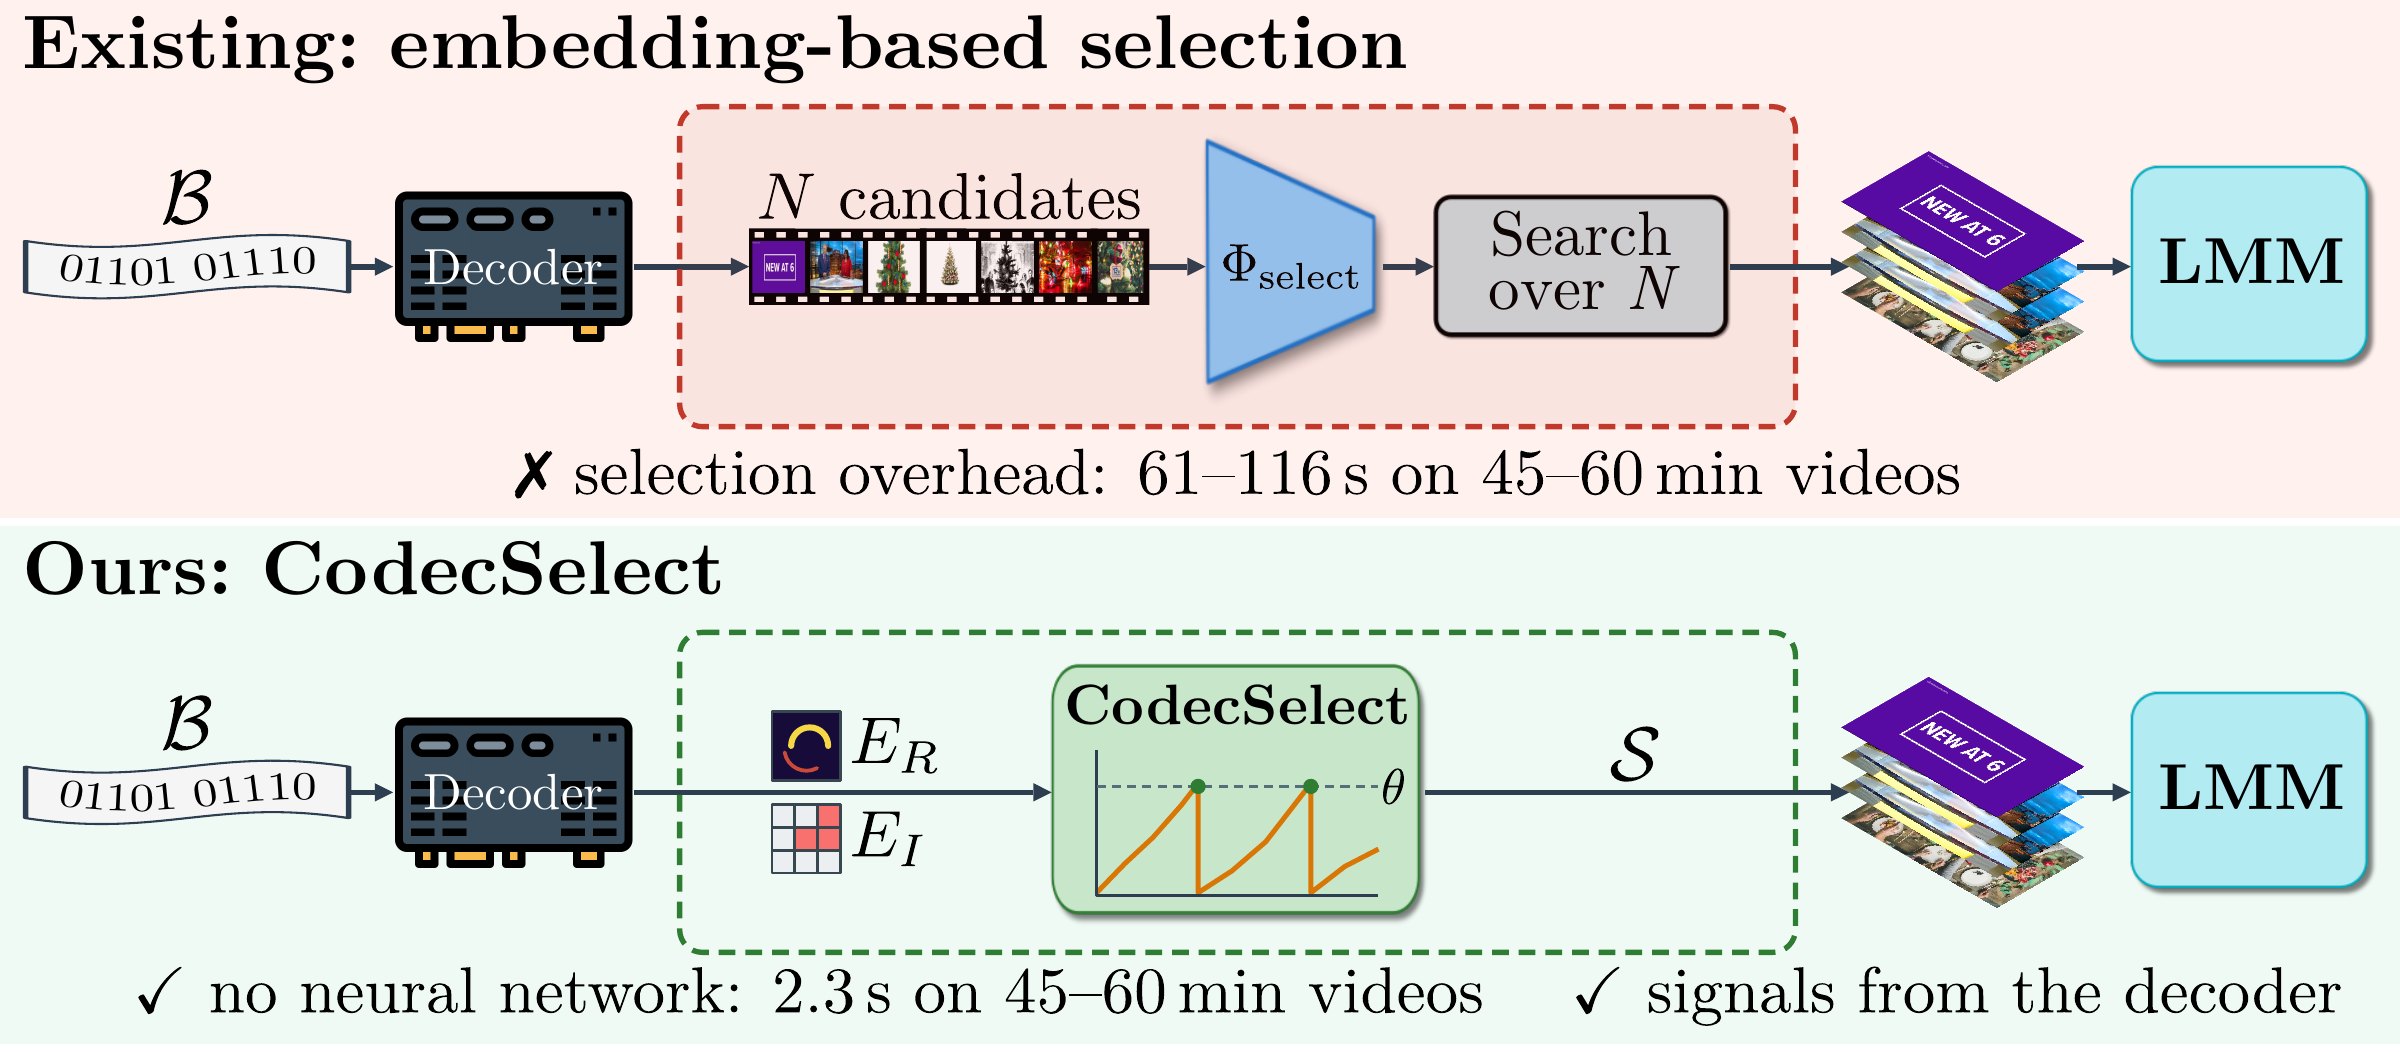
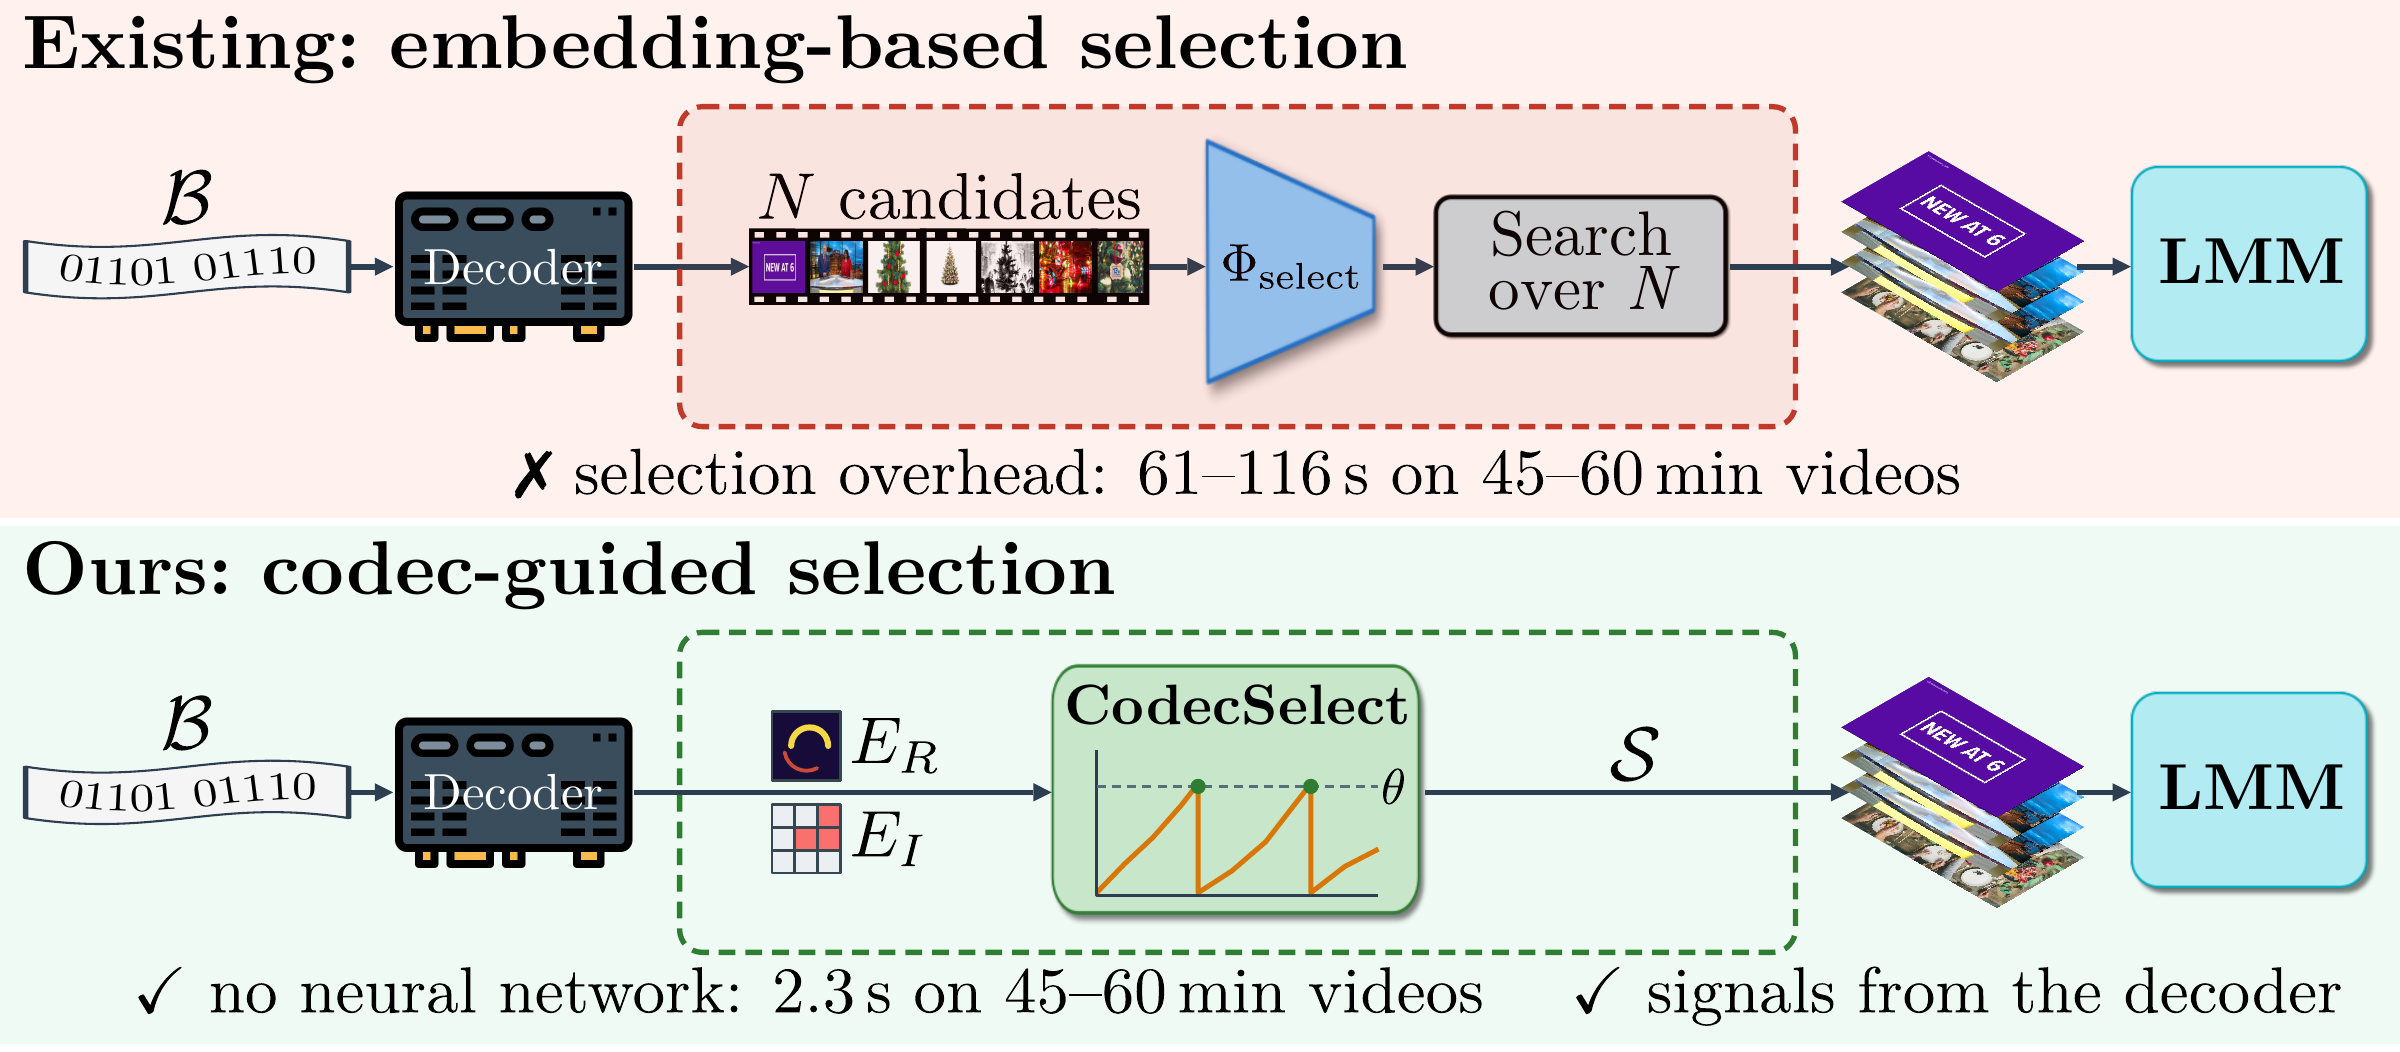
Code button, teaser label, author notes

Changed region(s): [[0.0938, 0.5171, 0.4688, 0.5779]]

diff --git a/docs/index.html b/docs/index.html
@@ -59,8 +59,8 @@ pre.bibtex{background:#f5f5f5;padding:16px;border-radius:6px;font-size:14px;whit
         <div class="column has-text-centered">
           <h1 class="title is-1 publication-title">Codec-guided Selection Cheaply Removes Redundant Frames for Video LMMs</h1>
           <div class="is-size-5 publication-authors">
-            <span class="author-block"><a href="https://lucazanella.github.io/" target="_blank">Luca Zanella</a><sup>1,*</sup>,</span>
-<span class="author-block"><a href="https://ferjad.github.io/" target="_blank">Muhammad Ferjad Naeem</a><sup>2,&dagger;</sup>,</span>
+            <span class="author-block"><a href="https://lucazanella.github.io/" target="_blank">Luca Zanella</a><sup>1,&dagger;</sup>,</span>
+<span class="author-block"><a href="https://ferjad.github.io/" target="_blank">Muhammad Ferjad Naeem</a><sup>2,&Dagger;</sup>,</span>
 <span class="author-block"><a href="https://xianyongqin.github.io/" target="_blank">Yongqin Xian</a><sup>2</sup>,</span>
 <span class="author-block"><a href="https://eliricci.eu/" target="_blank">Elisa Ricci</a><sup>1,3</sup>,</span>
 <span class="author-block"><a href="https://mancinimassimiliano.github.io/" target="_blank">Massimiliano Mancini</a><sup>1</sup>,</span>
@@ -72,9 +72,12 @@ pre.bibtex{background:#f5f5f5;padding:16px;border-radius:6px;font-size:14px;whit
             <span class="author-block"><sup>1</sup> University of Trento</span> <span class="author-block"><sup>2</sup> Google</span> <span class="author-block"><sup>3</sup> Fondazione Bruno Kessler</span> <span class="author-block"><sup>4</sup> Technical University of Munich</span>
           </div>
           <div class="is-size-6 publication-authors" style="color:#666;margin-top:4px;">
-            <span class="author-block"><sup>*</sup> Work done as a Student Researcher at Google. Now at Focoos AI.</span> <span class="author-block"><sup>&dagger;</sup> Now at Prometheus.</span>
+            <span class="author-block"><sup>&dagger;</sup> Work done as a Student Researcher at Google. Now at Focoos AI.</span> <span class="author-block"><sup>&Dagger;</sup> Now at Prometheus.</span>
           </div>
-          
+          <div class="column has-text-centered"><div class="publication-links">
+<span class="link-block"><a href="https://github.com/lucazanella/codecselect" target="_blank" class="external-link button is-normal is-rounded is-dark">
+<span class="icon"><i class="fab fa-github"></i></span><span>Code</span></a></span>
+</div></div>
           <div style="display:flex;justify-content:center;margin-top:20px;">
             <img src="static/images/teaser_cvpr_v3_60min.png" alt="Embedding-based selection compared with CodecSelect" style="width:75%;height:auto;">
           </div>
